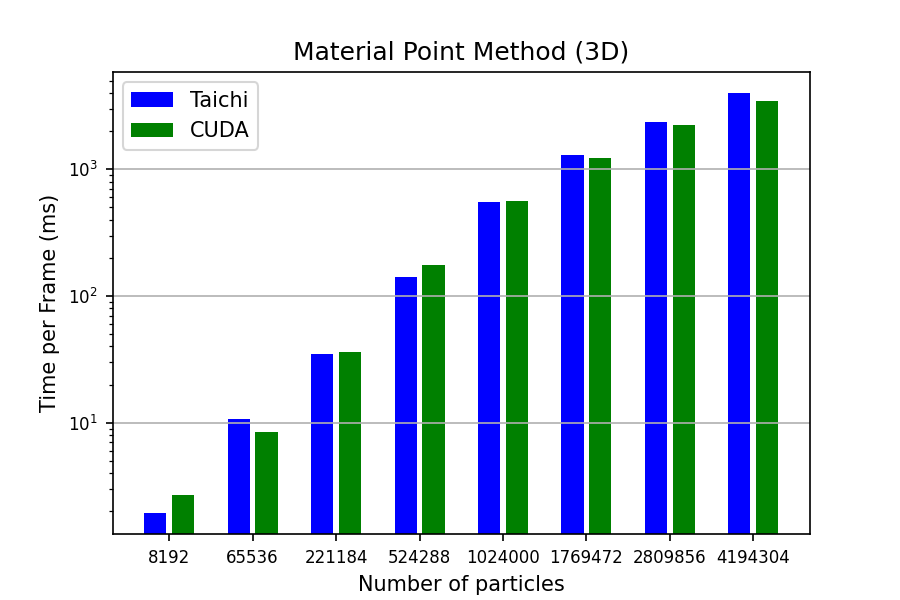
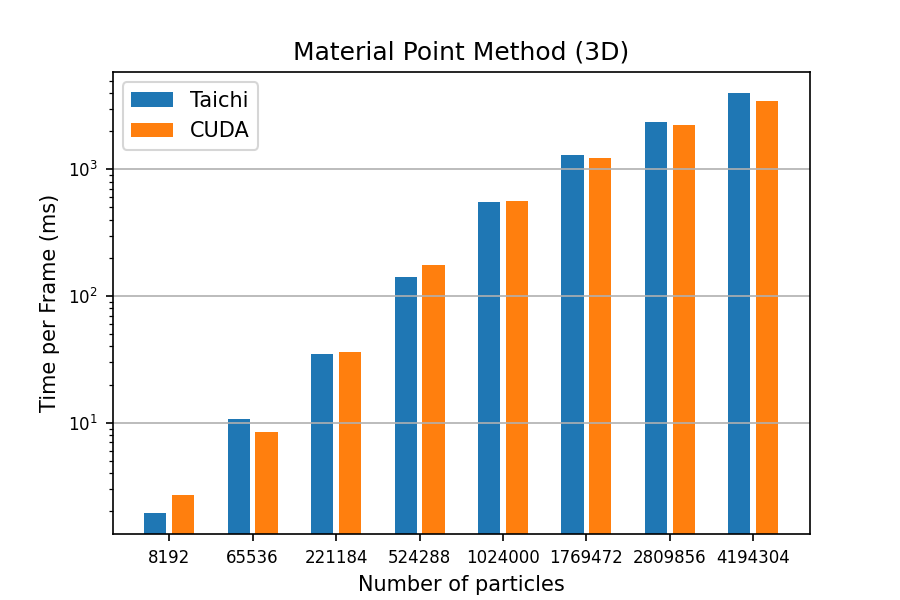
Update mpm bar color

diff --git a/mpm/plot_benchmark.py b/mpm/plot_benchmark.py
@@ -139,10 +139,10 @@ def plot_bar(cuda_results, taichi_results, plot_series="3d"):
     y_taichi = extract_perf(taichi_results["taichi_" + plot_series])
 
     bar_pos = [i * 3 for i in range(len(x_taichi))]
-    ax.bar(bar_pos, y_taichi, color='blue')
+    ax.bar(bar_pos, y_taichi)
 
     bar_pos = [i * 3 + 1 for i in range(len(x_cuda))]
-    ax.bar(bar_pos, y_cuda, color='green')
+    ax.bar(bar_pos, y_cuda)
 
     bar_pos_ticks = [i * 3 + 0.5 for i in range(len(x_cuda))]
     labels = ["{}".format(i) for i in x_cuda]
@@ -170,4 +170,4 @@ if __name__ == '__main__':
         taichi_results = taichi_sample_results
     else:
         taichi_results, cuda_results = run_benchmarks()
-    plot_bar(cuda_results, taichi_results, "2d")
+    plot_bar(cuda_results, taichi_results, "3d")
